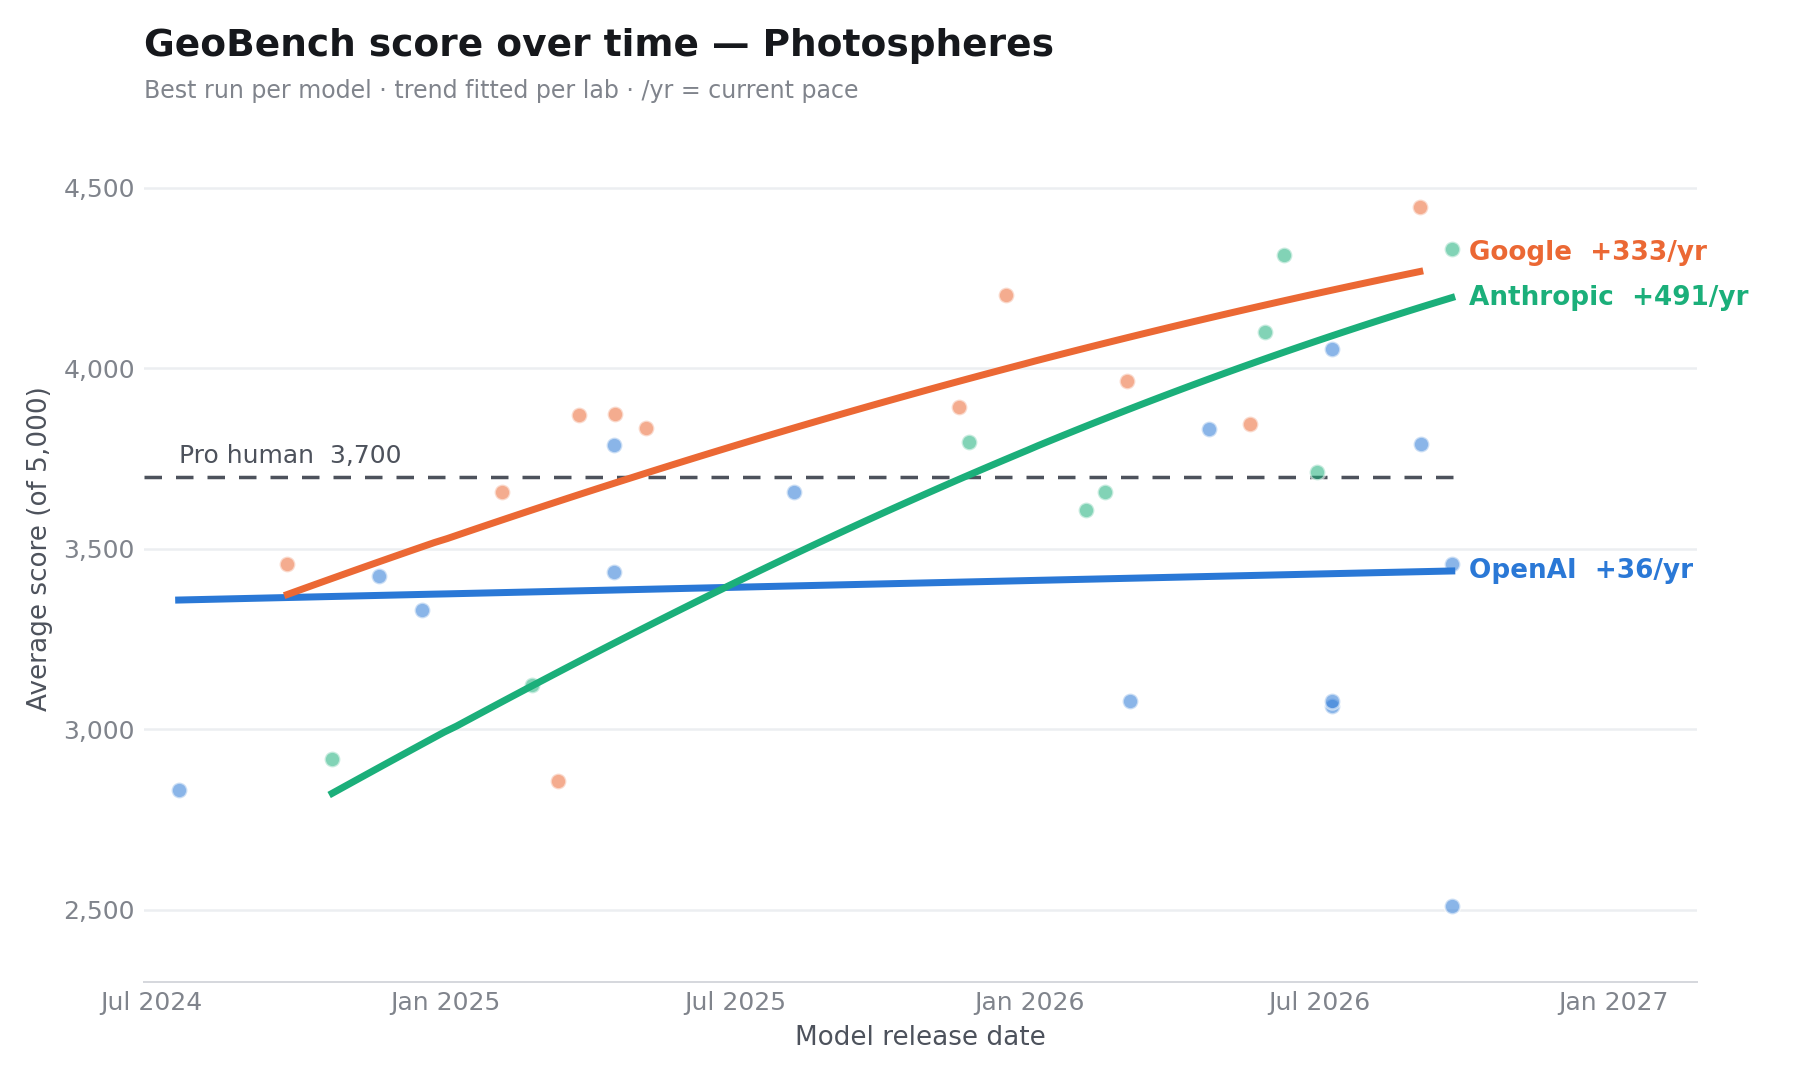
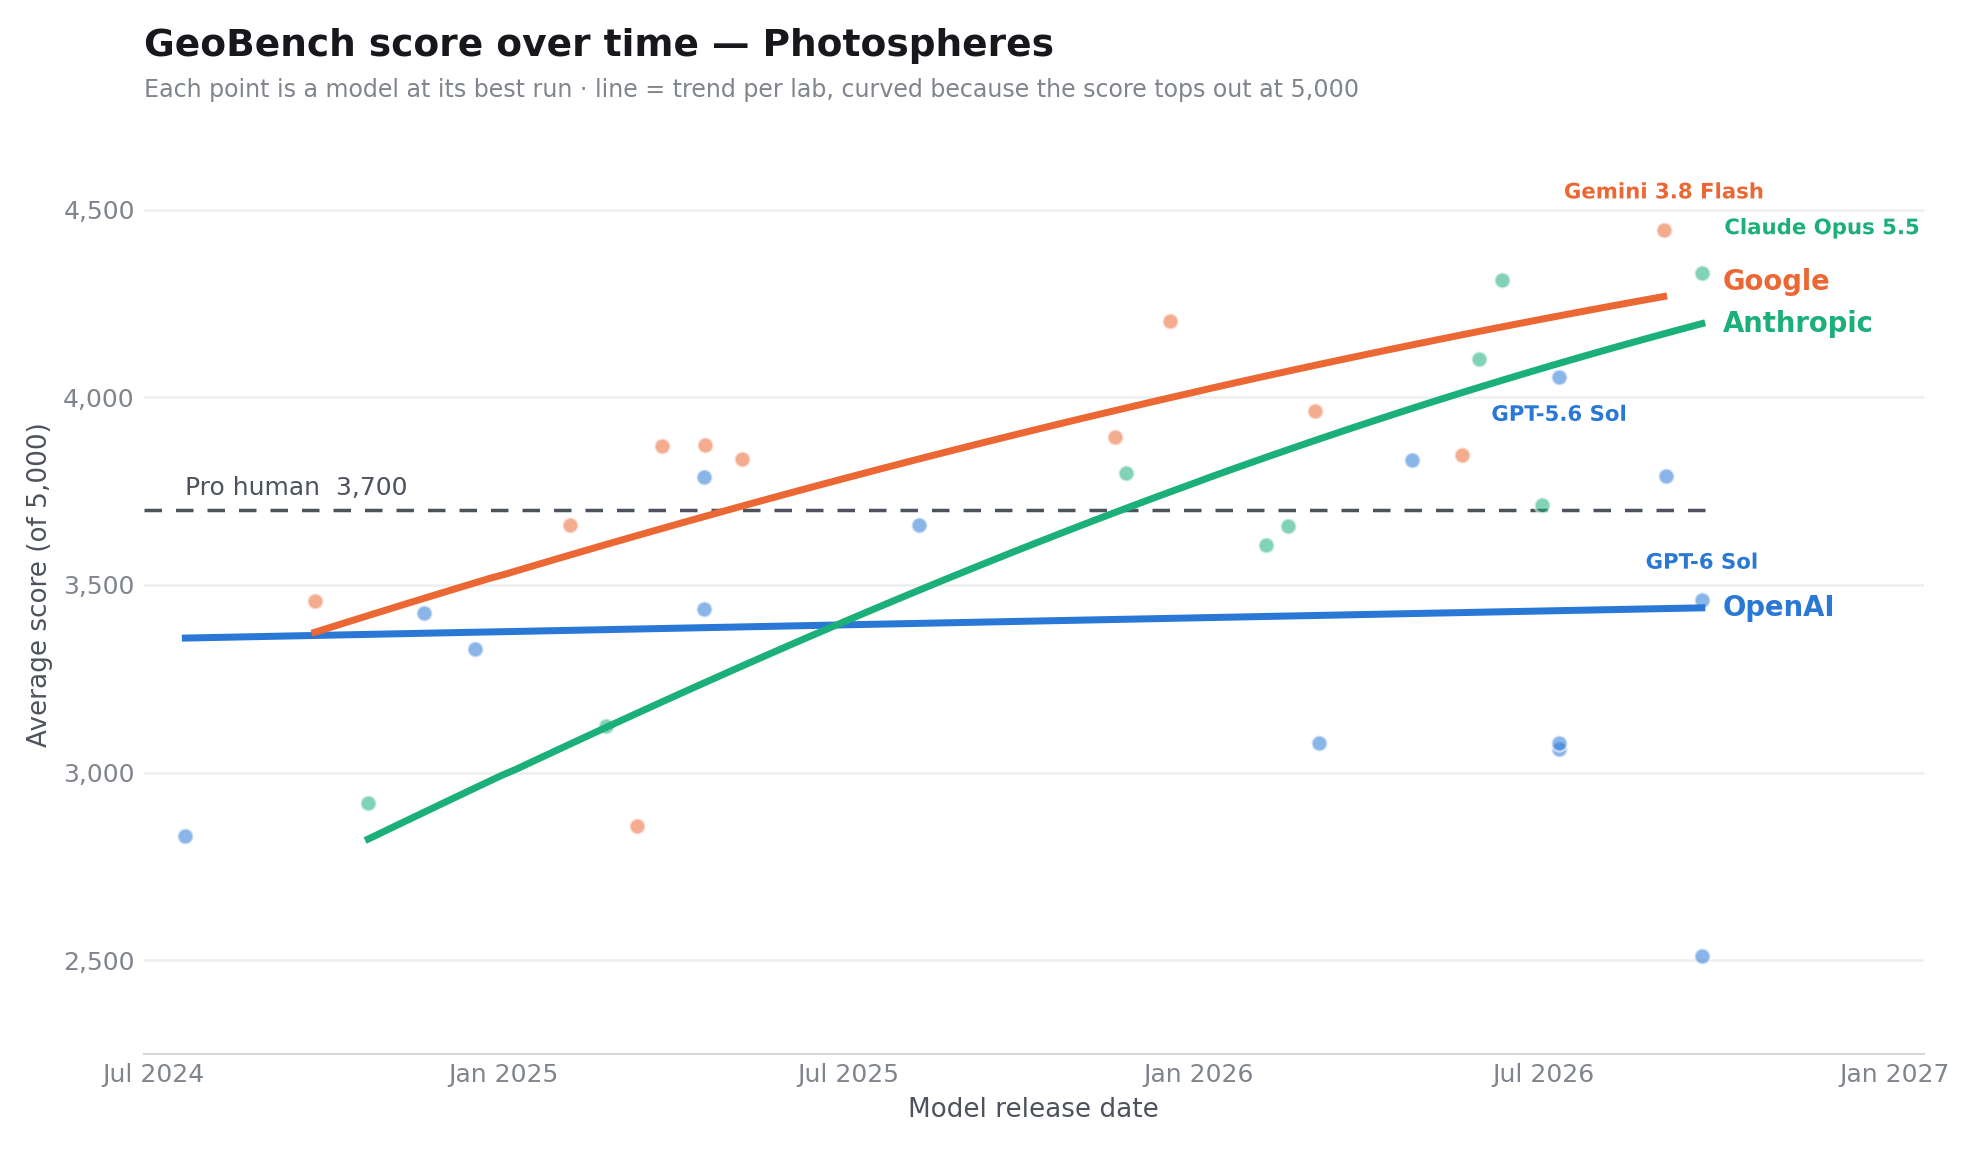
feat: name notable models on the trend plot; drop the per-year pace
Labels each lab's best and latest model, placed so they clear other labels,
the trend lines, the pro-human line and every marker.

Drops the "+N/yr" pace from the lab labels. On a logistic fit that number is
only the slope at the lab's latest model, and writing it as a per-year rate
reads as if the line were straight.

Also stops incomplete local runs reaching the plot. geobench.py rewrites
summary.json after every location, so a run still in progress looks
finished; the in-progress GPT-6.1 Sol runs (8-93 of 100 locations) showed a
4,949 average from their first few locations. Local runs that haven't
covered the whole image set are now skipped and listed by the build.

Claude-Session: https://claude.ai/code/session_016J11et8NqpuJ6SN8puCjmm

diff --git a/visualizations/timeline/plot_trends.py b/visualizations/timeline/plot_trends.py
@@ -8,7 +8,7 @@ tuned-prompt runs are left out so every lab is measured on the same setup. The
 trend line is fitted in logit space against the 5,000-point ceiling -- the
 sigmoid shape Epoch's ECI model assumes -- because a straight line on a bounded
 score eventually predicts the impossible. Each line spans only the dates that
-lab has actually shipped in.
+lab has actually shipped in. Each lab's best and latest model are named.
 
     python plot_trends.py                # both image sets
     python plot_trends.py --dataset acw
@@ -26,6 +26,7 @@ import matplotlib
 matplotlib.use("Agg")
 import matplotlib.dates as mdates
 import matplotlib.pyplot as plt
+from matplotlib import patheffects
 
 HERE = Path(__file__).resolve().parent
 CEILING = 5000.0
@@ -58,60 +59,101 @@ def logistic_fit(xs, ys):
     return mz - b * mx, b
 
 
-def best_scores(ds: dict, lab: str) -> list[tuple[float, float]]:
+def best_scores(ds: dict, lab: str) -> list[tuple[float, float, str]]:
+    """(release year, best standard-setup score, model name) for one lab."""
     out = []
     for m in ds["models"]:
         if m["org"] != lab:
             continue
         runs = [v for v in m["variants"] if not v.get("tools") and not v.get("prompt_tuned")]
         if runs:
-            out.append((to_year(m["date"]), max(v["score"] for v in runs)))
+            out.append((to_year(m["date"]), max(v["score"] for v in runs), m["model"]))
     return sorted(out)
 
 
+def notable(series: dict[str, list[tuple[float, float, str]]]) -> set[str]:
+    """Models worth naming: each lab's best model and its latest one."""
+    names = set()
+    for pts in series.values():
+        names.add(max(pts, key=lambda p: p[1])[2])
+        names.add(pts[-1][2])
+    return names
+
+
+def place_labels(ax, fig, items, avoid, obstacles) -> None:
+    """Greedy label placement: try spots around each point, nearest first, and
+    keep the first that overlaps no earlier label, nothing in `avoid`, and none
+    of the `obstacles` -- display-space points sampled along the lines."""
+    renderer = fig.canvas.get_renderer()
+    taken = [b.expanded(1.04, 1.15) for b in avoid]
+    offsets = [(0, 11, "center", "bottom"), (0, -11, "center", "top"),
+               (9, 0, "left", "center"), (-9, 0, "right", "center"),
+               (0, 24, "center", "bottom"), (0, -24, "center", "top"),
+               (9, 14, "left", "bottom"), (-9, 14, "right", "bottom"),
+               (9, -14, "left", "top"), (-9, -14, "right", "top")]
+    for x, y, name, col in sorted(items, key=lambda t: -t[1]):
+        for dx, dy, ha, va in offsets:
+            t = ax.annotate(name, (x, y), xytext=(dx, dy), textcoords="offset points",
+                            ha=ha, va=va, fontsize=8.5, color=col, fontweight="bold",
+                            path_effects=[patheffects.withStroke(linewidth=3, foreground="white")],
+                            zorder=6)
+            bb = t.get_window_extent(renderer)
+            inside = ax.get_window_extent(renderer).contains(bb.x0, bb.y0) and \
+                ax.get_window_extent(renderer).contains(bb.x1, bb.y1)
+            hits_line = any(bb.x0 - 3 <= px <= bb.x1 + 3 and bb.y0 - 3 <= py <= bb.y1 + 3
+                            for px, py in obstacles)
+            if inside and not hits_line and not any(bb.overlaps(o) for o in taken):
+                taken.append(bb.expanded(1.04, 1.15))
+                break
+            t.remove()
+
+
 def plot(ds: dict, out: Path) -> Path:
-    fig, ax = plt.subplots(figsize=(10, 6))
-    x_min, x_max = math.inf, -math.inf
+    fig, ax = plt.subplots(figsize=(11, 6.4))
+    series = {lab: best_scores(ds, lab) for lab in LABS}
+    series = {lab: pts for lab, pts in series.items() if len(pts) >= 3}
+    all_x = [p[0] for pts in series.values() for p in pts]
+    all_y = [p[1] for pts in series.values() for p in pts]
+    x_min, x_max = min(all_x), max(all_x)
     ends = []
+    lines = []      # (dates, values) of everything a label must not sit on
 
-    for lab, col in LABS.items():
-        pts = best_scores(ds, lab)
-        if len(pts) < 3:
-            continue
-        xs, ys = zip(*pts)
-        x_min, x_max = min(x_min, xs[0]), max(x_max, xs[-1])
+    for lab, pts in series.items():
+        col = LABS[lab]
+        xs, ys, _ = zip(*pts)
         a, b = logistic_fit(xs, ys)
-
         grid = [xs[0] + (xs[-1] - xs[0]) * i / 100 for i in range(101)]
         curve = [CEILING / (1 + math.exp(-(a + b * g))) for g in grid]
 
         ax.scatter([to_date(x) for x in xs], ys, s=40, color=col, alpha=0.55,
                    edgecolor="white", linewidth=1, zorder=3)
         ax.plot([to_date(g) for g in grid], curve, color=col, linewidth=2.8, zorder=4)
-
-        p = curve[-1] / CEILING                       # slope of the fit at the latest model
-        pace = CEILING * b * p * (1 - p)
-        ends.append([curve[-1], lab, col, pace])
+        ends.append([curve[-1], lab, col])
+        lines.append(([to_date(g) for g in grid], curve))
 
     # pro human baseline
     human = PRO_HUMAN.get(ds["id"])
+    avoid = []
     if human:
-        # stop short of the lab labels so the line never runs through them
+        # stop short of the lab names so the line never runs through them
         ax.hlines(human, to_date(x_min - 0.06), to_date(x_max + 0.01), color=INK_2,
                   linewidth=1.4, linestyle=(0, (5, 4)), zorder=2)
-        ax.text(to_date(x_min), human + 25, f"Pro human  {human:,}", color=INK_2,
-                fontsize=10, ha="left", va="bottom")
+        hx = [x_min - 0.06 + (x_max - x_min + 0.07) * i / 200 for i in range(201)]
+        lines.append(([to_date(v) for v in hx], [human] * len(hx)))
+        avoid.append(ax.text(to_date(x_min), human + 25, f"Pro human  {human:,}",
+                             color=INK_2, fontsize=10, ha="left", va="bottom"))
 
     # lab names at the end of each line, spread apart if they crowd
     ends.sort()
     for i in range(1, len(ends)):
-        ends[i][0] = max(ends[i][0], ends[i - 1][0] + 125)
-    for y, lab, col, pace in ends:
-        ax.text(to_date(x_max + 0.03), y, f"{lab}  {pace:+,.0f}/yr", color=col,
-                fontsize=10.5, fontweight="bold", va="center", ha="left")
+        ends[i][0] = max(ends[i][0], ends[i - 1][0] + 110)
+    for y, lab, col in ends:
+        avoid.append(ax.text(to_date(x_max + 0.03), y, lab, color=col, fontsize=11,
+                             fontweight="bold", va="center", ha="left"))
 
-    ax.set_xlim(to_date(x_min - 0.06), to_date(x_max + 0.42))
-    ax.set_ylim(2300, 4700)
+    ax.set_xlim(to_date(x_min - 0.06), to_date(x_max + 0.32))
+    ax.set_ylim(math.floor((min(all_y) - 150) / 250) * 250,
+                min(CEILING, math.ceil((max(all_y) + 200) / 250) * 250))
     ax.xaxis.set_major_locator(mdates.MonthLocator(bymonth=(1, 7)))
     ax.xaxis.set_major_formatter(mdates.DateFormatter("%b %Y"))
     ax.yaxis.set_major_formatter(plt.FuncFormatter(lambda v, _p: f"{v:,.0f}"))
@@ -123,13 +165,28 @@ def plot(ds: dict, out: Path) -> Path:
     ax.spines["bottom"].set_color("#d6d8dd")
     ax.set_ylabel("Average score (of 5,000)", color=INK_2, fontsize=10.5)
     ax.set_xlabel("Model release date", color=INK_2, fontsize=10.5)
-
     ax.set_title(f"GeoBench score over time — {ds['label'].split(' — ')[0]}",
                  loc="left", fontsize=15, fontweight="bold", color=INK, pad=24)
-    ax.text(0, 1.015, "Best run per model · trend fitted per lab · /yr = current pace",
+    ax.text(0, 1.015, "Each point is a model at its best run · line = trend per lab, "
+            "curved because the score tops out at 5,000",
             transform=ax.transAxes, fontsize=9.5, color=INK_3, va="bottom")
 
     fig.tight_layout()
+    fig.canvas.draw()
+    named = notable(series)
+    items = [(to_date(x), y, name, LABS[lab]) for lab, pts in series.items()
+             for x, y, name in pts if name in named]
+    obstacles = []
+    for dates, vals in lines:
+        for d, v in zip(dates, vals):
+            obstacles.append(tuple(ax.transData.transform((mdates.date2num(d), v))))
+    # and every marker, so no label hides another model's point
+    for pts in series.values():
+        for x, y, _ in pts:
+            obstacles.append(tuple(ax.transData.transform((mdates.date2num(to_date(x)), y))))
+    place_labels(ax, fig, items,
+                 [t.get_window_extent(fig.canvas.get_renderer()) for t in avoid], obstacles)
+
     path = out / f"trends_{ds['id']}.png"
     fig.savefig(path, dpi=180, facecolor="white")
     plt.close(fig)

diff --git a/visualizations/timeline/build_timeline.py b/visualizations/timeline/build_timeline.py
@@ -397,7 +397,17 @@ def main() -> None:
 
     for row in published:
         ingest(row, "geobench.org")
+    # geobench.py rewrites summary.json after every location, so a run that is
+    # still going (or was killed) looks finished but covers only part of the
+    # dataset -- its first handful of locations can score anything. Keep only
+    # local runs that saw the whole image set.
+    full_size = {folder: n for folder, _, n in DATASETS.values()}
+    incomplete = []
     for row in local:
+        size = full_size.get(row.get("test", ""))
+        if size and int(row.get("n", 0)) < size:
+            incomplete.append(f"{row.get('model')} [{row.get('test')}] n={row.get('n')}/{size}")
+            continue
         ingest(row, "local run")
 
     datasets = {}
@@ -438,6 +448,10 @@ def main() -> None:
         page_path.write_text(page)
         print(f"Wrote {page_path}  ({len(page) / 1024:.0f} KB)")
 
+    if incomplete:
+        print("\nSkipped incomplete local runs (still running, or stopped early):")
+        for u in sorted(incomplete):
+            print(f"  {u}")
     if unmapped:
         print("\nUnmapped (add to MODELS/DATASETS if these should appear):")
         for u in sorted(unmapped):
